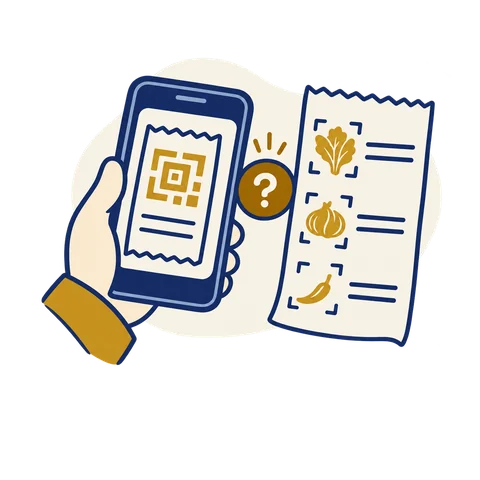
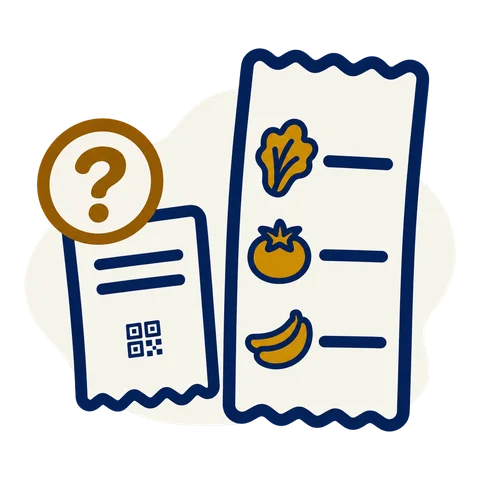
fix(receiving): illustration set round 2 — clearer offline/not-a-bill, larger launcher mark, 112px splash, dark-safe edges
Addresses UX review r1 (7.7). Asset checks 131/131 twice.

diff --git a/client/src/assets/illustrations/README.md b/client/src/assets/illustrations/README.md
@@ -11,14 +11,14 @@
 | ไฟล์ | ใช้เมื่อ | alt text ภาษาไทย | หัวข้อ / ข้อความประกอบที่เสนอ |
 | --- | --- | --- | --- |
 | `empty-today.webp` | โหลดข้อมูลสำเร็จแล้วแต่วันนี้ไม่มีเอกสาร | ลังรับของว่างและใบส่งของในยามเช้า | ยังไม่มีของเข้าวันนี้ / เริ่มจากถ่ายบิลใบแรก |
-| `capture-bill.webp` | ก่อนเปิดกล้องหรือคำแนะนำถ่ายภาพ | มือถือถ่ายใบส่งของที่วางราบบนโต๊ะในแสงสว่าง | ถ่ายบิลให้ชัด / วางบิลราบ ให้เห็นครบทั้งใบ |
-| `reading-bill.webp` | คำขอ OCR กำลังทำงานจริง | กรอบสแกนกำลังอ่านใบส่งของข้างตาชั่งตลาด | กำลังอ่านบิล / รอสักครู่ แล้วตรวจรายการอีกครั้ง |
+| `capture-bill.webp` | ก่อนเปิดกล้องหรือคำแนะนำถ่ายภาพ | สองมือประคองโทรศัพท์แนวนอนถ่ายใบส่งของบนโต๊ะข้างผักและตะกร้า | ถ่ายบิลให้ชัด / วางบิลราบ ให้เห็นครบทั้งใบ |
+| `reading-bill.webp` | คำขอ OCR กำลังทำงานจริง | กรอบอ่านใบส่งของสามแถวข้างลังผักและตาชั่งตลาด | กำลังอ่านบิล / รอสักครู่ แล้วตรวจรายการอีกครั้ง |
 | `review-lines.webp` | ขั้นตรวจผล OCR และจำนวนก่อนยืนยัน | มือชี้ตรวจจำนวนในใบส่งของข้างตะกร้าวัตถุดิบ | ตรวจรายการและจำนวน / ผลอ่านบิลเป็นข้อเสนอ แก้ไขได้ |
 | `sign.webp` | ก่อนเปิดช่องเซ็นรับของ | พนักงานใช้ปากกาเซ็นใบส่งของข้างลังผัก | เซ็นรับของ / ตรวจชื่อผู้รับก่อนบันทึก |
 | `received-success.webp` | เซิร์ฟเวอร์ตอบยืนยันรับของสำเร็จจริงแล้ว | ลังวัตถุดิบและใบส่งของพร้อมเครื่องหมายถูกสีเขียว | รับของเรียบร้อย |
-| `offline.webp` | ขาดเน็ตและยืนยันได้ว่าร่างบันทึกในเครื่องแล้ว | พนักงานชี้เอกสารที่เก็บในมือถือขณะไม่มีสัญญาณอินเทอร์เน็ต | ไม่มีเน็ต / ร่างนี้อยู่ในเครื่องแล้ว |
+| `offline.webp` | ขาดเน็ตและยืนยันได้ว่าร่างบันทึกในเครื่องแล้ว | เอกสารในมือถือพร้อมป้ายโทรศัพท์มีเครื่องหมายถูก และป้ายไวไฟขีดทับแยกกัน | ไม่มีเน็ต / ร่างนี้อยู่ในเครื่องแล้ว |
 | `error.webp` | คำขอผิดพลาดและมีทางลองใหม่ | ใบส่งของพร้อมเครื่องหมายเตือนและลูกศรลองใหม่ | ลองใหม่อีกครั้ง / ถ้าระบบยังมีค่าที่กรอกอยู่ จึงบอกว่าเก็บรายการไว้แล้ว |
-| `not-a-bill.webp` | ต้องการให้คนตรวจภาพที่ระบบสงสัยว่าเป็นสลิป | ภาพสลิปในมือถือเทียบกับบิลรายการสินค้าและเครื่องหมายคำถาม | ภาพนี้อาจไม่ใช่บิล / ถ่ายใบส่งของที่มีรายการสินค้า |
+| `not-a-bill.webp` | ต้องการให้คนตรวจภาพที่ระบบสงสัยว่าเป็นสลิป | สลิปสั้นมีคิวอาร์เล็กเทียบกับใบส่งของยาวสามรายการ พร้อมคำถามอำพันหนึ่งจุด | ภาพนี้อาจไม่ใช่บิล / ถ่ายใบส่งของที่มีรายการสินค้า |
 | `welcome.webp` | หน้าแรกหรือเข้าสู่ระบบ | พนักงานร้านอาหารสองวัยต้อนรับพร้อมลังผักและใบส่งของ | พร้อมรับของเช้านี้ |
 
 ภาพและข้อความไม่ใช่หลักฐานว่าบันทึกในเครื่องหรือยืนยันบนเซิร์ฟเวอร์สำเร็จ ต้องผูกกับผลการทำงานจริง ห้ามใช้ภาพสำเร็จระหว่างรอคำตอบ และห้ามแสดง empty-today เมื่อโหลดล้มเหลว
@@ -62,6 +62,10 @@ import emptyToday from '../../assets/illustrations/empty-today.webp';
 SVG ที่โหลดผ่าน `<img>` จะไม่รับ `currentColor` จาก parent ในหน้า ให้ต่อเป็น inline SVG/component หรือ sprite ในรอบรวมงาน แล้วกำหนด `aria-hidden="true"` เมื่อปุ่มมีชื่ออยู่แล้ว หากเป็นปุ่มไอคอนล้วนต้องมี accessible name และเป้าแตะอย่างน้อย 48px ไม่เพิ่ม basket/scale/saved-local เข้า registry เดิมในรอบนี้
 
 ## หลักฐาน
+
+รอบ 2 สร้าง `offline` และ `not-a-bill` ใหม่ด้วย image generation; แก้ `capture-bill`, `reading-bill`, `welcome` จากภาพเดิมโดยลดเส้นย่อยในกระดาษ ผัก ลัง และตาชั่งให้อ่านที่ 160px ได้ใกล้ระดับ `error` และปรับพื้น cream รองรับขอบแขน/ผมที่สำคัญบนพื้นมืด ไม่มี glow ภาพอื่นและ SVG เสริมคงเดิม ป้ายเก็บในเครื่องอ้างรูปทรง `saved-local.svg` (โทรศัพท์ + เช็ก) ไม่ใช่ลูกศรดาวน์โหลด และ Wi-Fi ขาดแยกเป็นอีกป้าย
+
+ใช้ `contact-sheet-light-r2.png` / `contact-sheet-dark-r2.png` และ `REPORT-r2.md` เป็นหลักฐานรอบล่าสุด ไม่ใช้ contact sheet รอบแรกตัดสินขนาดไอคอนหรือ splash การตรวจไฟล์สองรอบอยู่ใน `validation-r2-1.json` / `validation-r2-2.json` และรายการ checksum อยู่ใน `assets-manifest-r2.json` รายละเอียด prompt และรุ่นที่เลือกอยู่ใน `raw/r2/prompts-r2.json`
 
 ต้นฉบับ 1254×1254px, prompt, รุ่นทดลอง, contact sheet สว่าง/มืด และรายงาน อยู่บน SSD ที่:
 

diff --git a/client/src/assets/brand/README.md b/client/src/assets/brand/README.md
@@ -16,10 +16,15 @@
 | `android/drawable-night-{density}/splash_icon.png` | 288 / 432 / 576 / 864 / 1152 | รุ่นมืดพร้อมวง cream 188dp อยู่ในวงปลอดภัย 192dp |
 | `splash-light-2732.png` | 2732×2732 | splash เต็มจอพื้น cream เนื้อภาพอยู่กลาง |
 | `splash-dark-2732.png` | 2732×2732 | splash เต็มจอพื้น `#101522` พร้อมแผ่น cream กลางภาพ |
+| `splash-light-1080x2400.png` / `splash-dark-1080x2400.png` | 1080×2400 | splash แนวตั้งอัตราส่วน 360×800 ที่ 3x ใช้เป็นต้นฉบับเต็มจอสำหรับอัตราส่วนนี้ |
 
-ทั้ง foreground และ background เป็นสี่เหลี่ยมเต็มกรอบ **ไม่ใส่ rounded mask ลงไฟล์** launcher เป็นผู้ตัดรูป foreground ใช้ภาพอยู่ในกรอบกลาง 410×410 บน master 1024px ซึ่งอยู่ในวงปลอดภัย 66/108 ของ canvas; เว้นพื้นที่เผื่อเอฟเฟกต์ launcher ส่วน legacy ใช้พื้นที่มากกว่าเพื่อให้อ่านออกที่ 48px
+ทั้ง foreground และ background เป็นสี่เหลี่ยมเต็มกรอบ **ไม่ใส่ rounded mask ลงไฟล์** launcher เป็นผู้ตัดรูป รอบ 2 ขยายสัญลักษณ์เดิมจากกว้าง 410 เป็น 517px ใน master 1024px โดยจัดตำแหน่งตามรูปทรงจริงให้พิกเซลที่มองเห็นอยู่ในวงกลางประมาณ 63.5dp ภายใน safe circle 66dp ของ canvas 108dp ไม่ได้ออกแบบเครื่องหมายใหม่หรือบังคับให้กรอบสี่เหลี่ยมของรูปต้องอยู่ในวงทั้งหมด ไฟล์ legacy และ background คงเดิม
 
-Splash master วางแผ่นกลาง 768×768px ที่พิกัด `(982,982)` บนภาพ 2732px เนื้อเครื่องหมายไม่เกิน 560×560px ไม่ฝังชื่อแอปหรือข้อความบน splash เพื่อหลีกเลี่ยงการถูกครอป เมื่อใช้เต็มจอให้รักษาจุดศูนย์กลางและตรวจ safe area บนอุปกรณ์จริง Android 12+ ใช้ native splash API กับ `splash_icon.png` แทนการเอาภาพเต็ม 2732px ไปใส่ช่อง icon
+Splash master 2732px รอบ 2 มีเครื่องหมายกว้าง 850px รุ่นมืดมีแผ่น cream เส้นผ่านศูนย์กลาง 1100px เมื่อปรับตาม **ความกว้าง** เป็น 360px เครื่องหมายกว้างประมาณ 112px ให้จัดกลางและเติมพื้นที่ด้านบน/ล่างด้วยสีพื้นของธีม ห้ามใช้ `cover` กับ master สี่เหลี่ยมบนจอยาวเพราะขนาดเครื่องหมายจะเปลี่ยน
+
+สำหรับจอ 360×800 ใช้ไฟล์แนวตั้ง 1080×2400 โดยตรง: เครื่องหมายกว้าง 336px ที่ 3x หรือ 112px บนจอจริง แผ่น cream รุ่นมืดกว้างประมาณ 145px ไม่ใช่ขนาดเครื่องหมาย ไม่มีชื่อแอปหรือข้อความในภาพ หลักฐาน `splash-fullscreen-{light,dark}-360x800-r2.png` ลดจากไฟล์แนวตั้งเหล่านี้จริง
+
+Android 12+ ใช้ native splash API กับ `splash_icon.png` แยกจากภาพเต็มจอ: คงกรอบ 288dp / เครื่องหมาย 128dp / วง cream รุ่นมืด 188dp ภายในวงปลอดภัย 192dp ของเดิมไว้ ตรวจทุก density แล้ว ไม่ขยาย native icon ตามอัตราของ full-screen splash
 
 ## วิธีต่อ Android ในรอบถัดไป
 
@@ -39,6 +44,8 @@ Splash master วางแผ่นกลาง 768×768px ที่พิกั
 4. ธีม Android 12+ ใช้ `windowSplashScreenAnimatedIcon` อ้าง `@drawable/splash_icon`; พื้น light เป็น cream, พื้น night เป็น `#101522` ไฟล์ที่ให้มาเตรียมตาม mode ไม่มี system icon background เพิ่ม โดยรุ่น night มีวง cream อยู่ใน PNG แล้ว
 5. Android เลือก `drawable-night-*` เมื่อใช้ธีม night จึงมี cream รองรับเครื่องหมาย navy โดยอัตโนมัติ ตรวจให้ธีมใช้ night จริงตามโหมดแอป สำหรับ full-screen splash ใช้ไฟล์ dark ที่เตรียมให้ได้
 6. ตรวจ launcher แบบวงกลม/squircle, Android รุ่นก่อน/หลัง 12, orientation, center crop และ theme บน APK จริง งานนี้ตรวจเฉพาะไฟล์และภาพ proof
+
+หลักฐานรอบ 2 บน SSD: `icon-masks-48px-light-r2.png` / `icon-masks-48px-dark-r2.png` แสดงวงกลมและสี่เหลี่ยมมนที่ 48px จริง พร้อมภาพขยาย 3x แบบ nearest-neighbor โดยจำลอง viewport กลาง 72dp ของ adaptive layer 108dp ก่อนตัด mask; ไฟล์ 48×48 แยกและ native splash 288dp ทั้งสองธีมอยู่ใน `r2-proof/` ภาพเหล่านี้เป็นการประกอบตรวจ assets ไม่ใช่ screenshot ของ launcher/Android จริง
 
 alt ที่เสนอเมื่อแสดงเป็นภาพในเว็บ: “สัญลักษณ์แอปรับสินค้า โซลาว ลังวัตถุดิบและใบส่งของ” หากชื่อแอปอยู่ข้างภาพแล้วให้ใช้ alt ว่าง ไอคอนแอปไม่ได้ใช้เป็นเครื่องหมายรับของสำเร็จ สีเขียวและเช็กจึงไม่อยู่ในโลโก้
 
